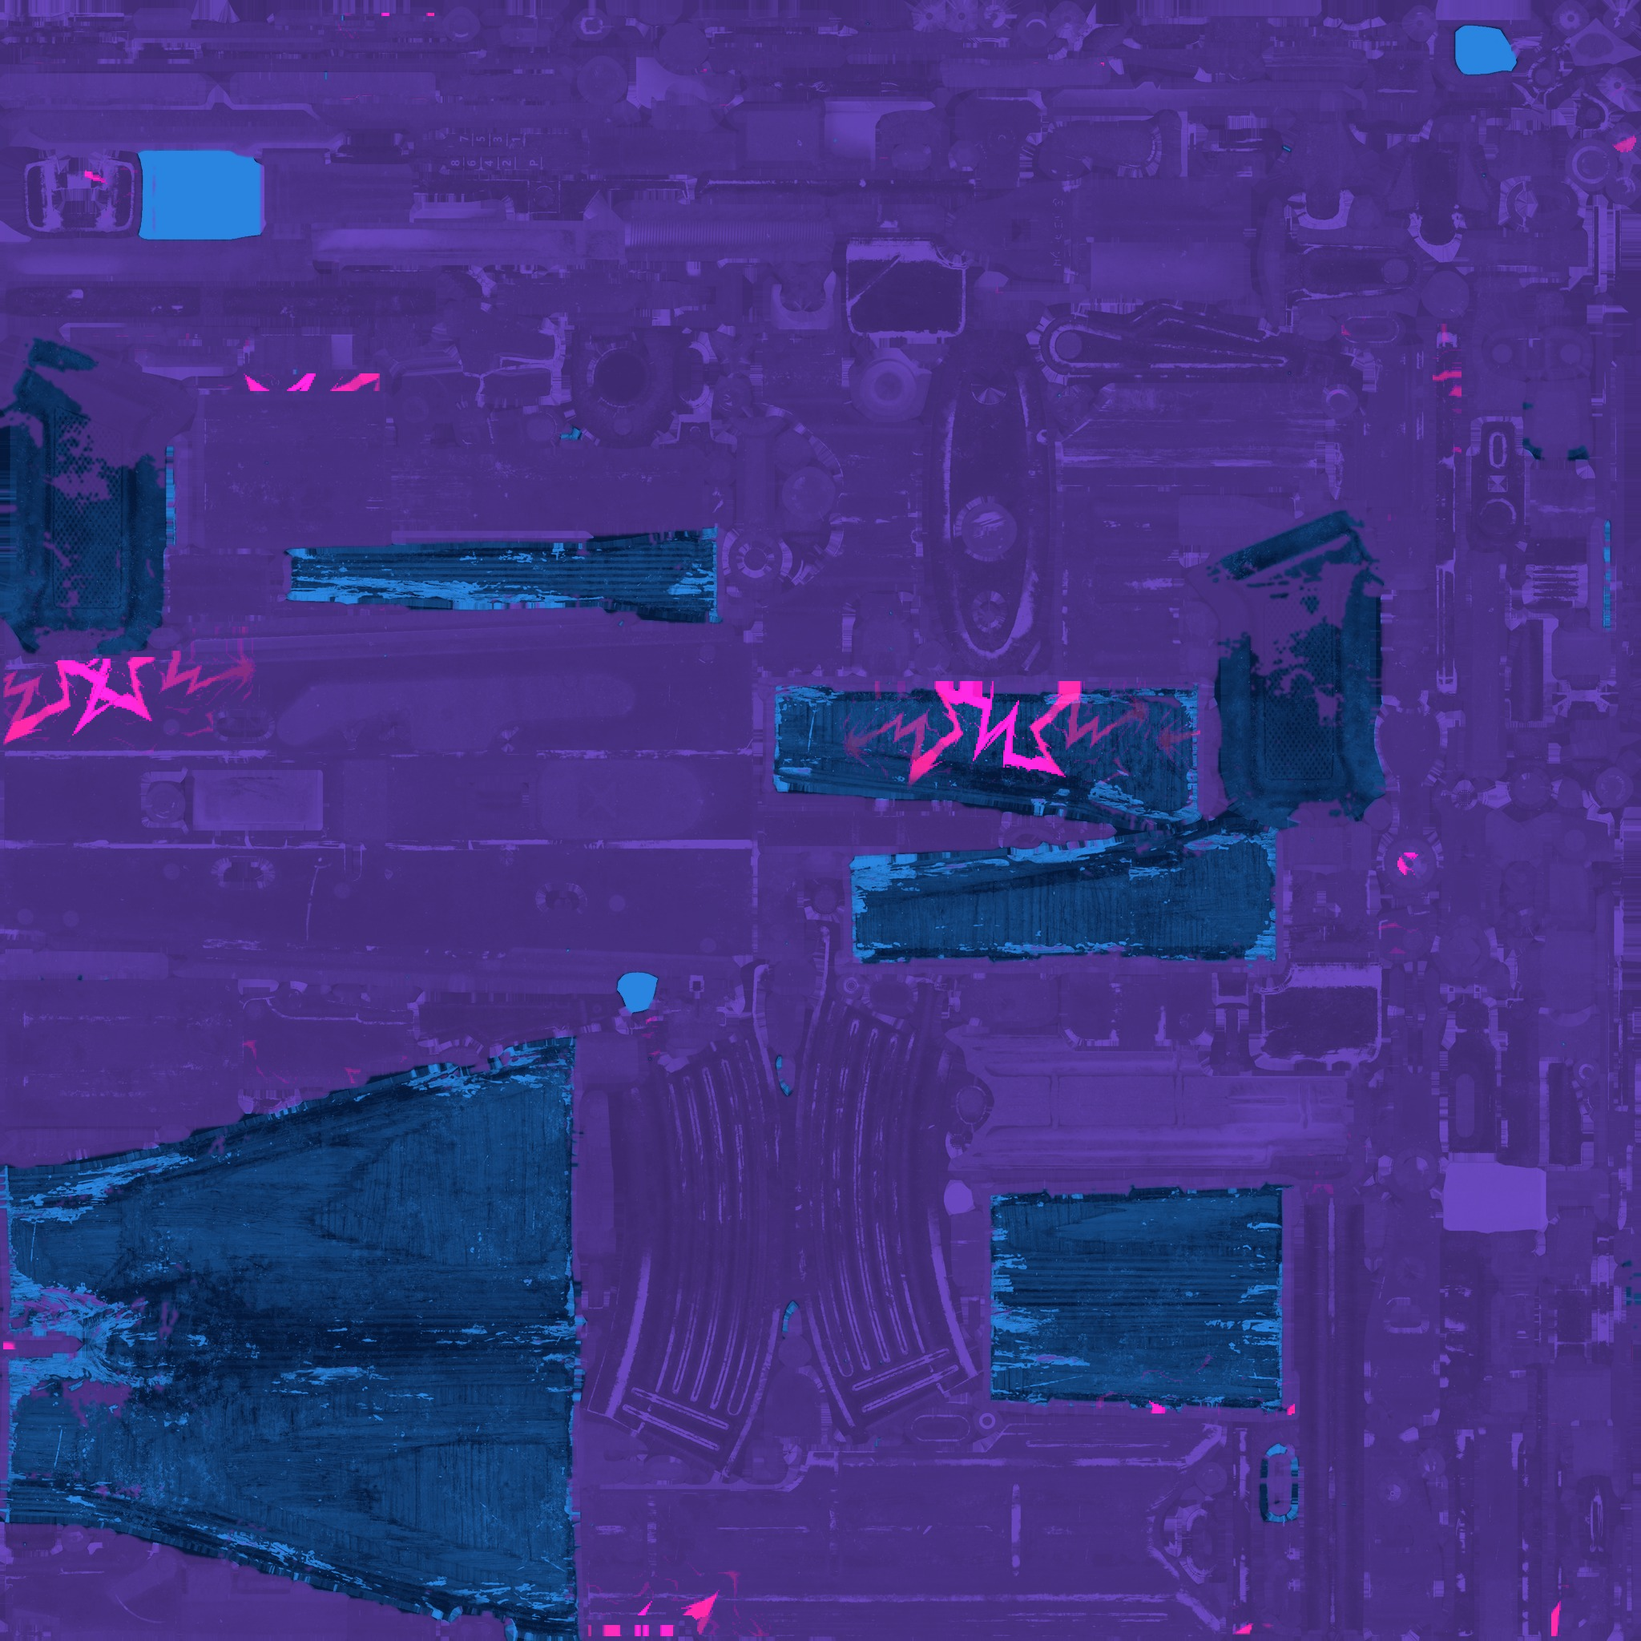
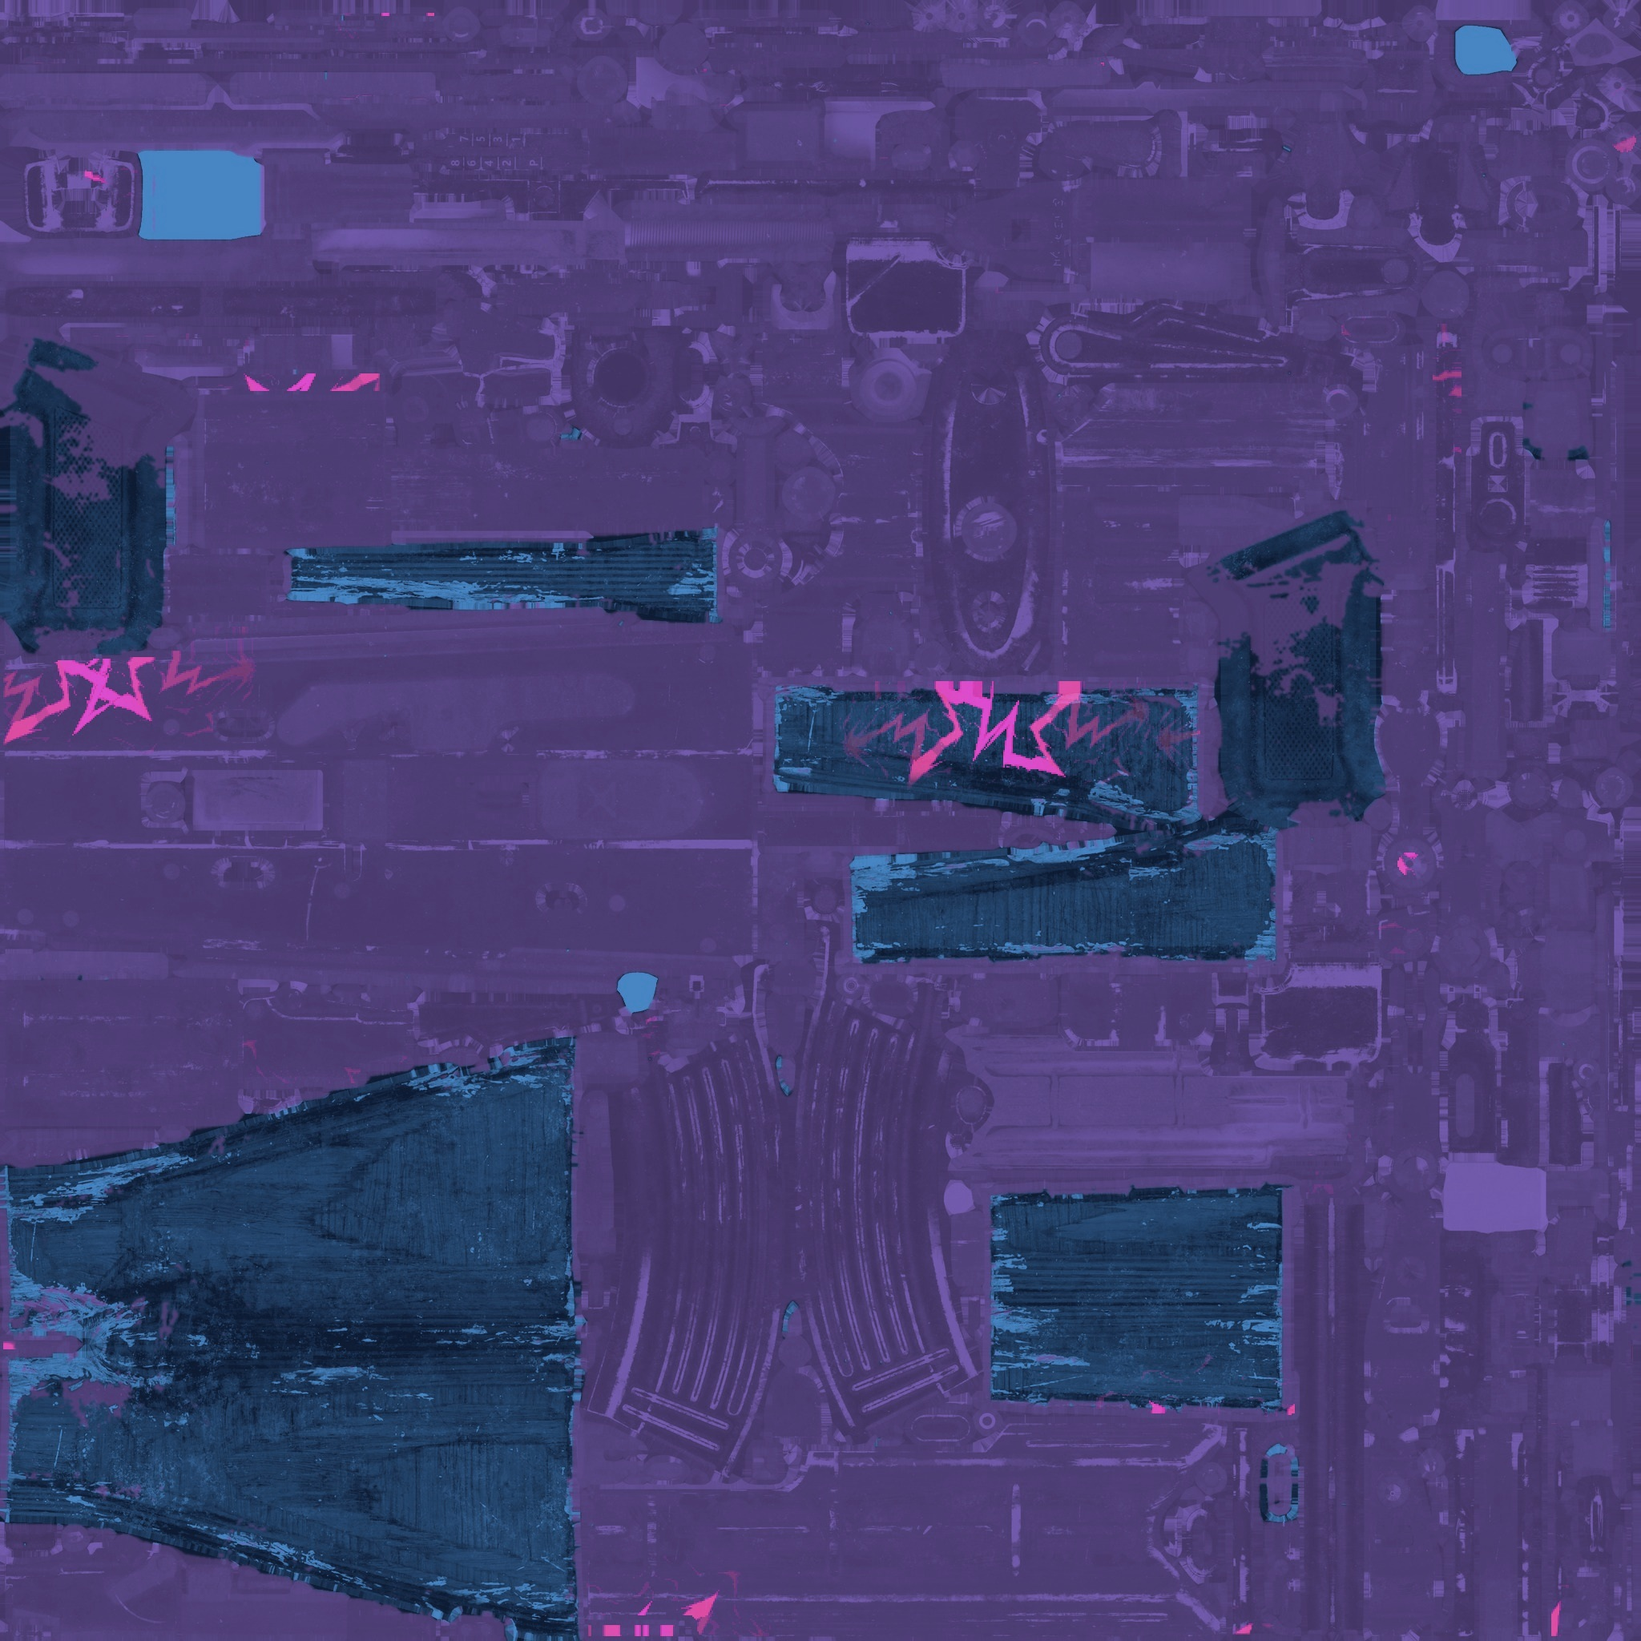
wip less uncanny but stickers off

diff --git a/main.js b/main.js
@@ -1,30 +1,63 @@
 import * as THREE from 'three';
 import { GLTFLoader } from './vendor/jsm/loaders/GLTFLoader.js';
 import { OrbitControls } from './vendor/jsm/controls/OrbitControls.js';
-import { RoomEnvironment } from './vendor/jsm/environments/RoomEnvironment.js';
 
 const FPS = 30;                       // CS2 clip frame rate; event times in the clips are frames
-const INCH = 0.0254;
 const $ = (id) => document.getElementById(id);
 const msg = (t) => ($('msg').textContent = t);
 
 // ---------------------------------------------------------------- renderer
-const renderer = new THREE.WebGLRenderer({ antialias: true });
+const renderer = new THREE.WebGLRenderer({ antialias: true, alpha: true });
 renderer.setPixelRatio(Math.min(devicePixelRatio, 2));
 renderer.setSize(innerWidth, innerHeight);
-renderer.toneMapping = THREE.NeutralToneMapping;
-renderer.toneMappingExposure = 1.0;
+renderer.toneMapping = THREE.ACESFilmicToneMapping;
+renderer.toneMappingExposure = 0.95;
 renderer.outputColorSpace = THREE.SRGBColorSpace;
+renderer.shadowMap.enabled = true;
+renderer.shadowMap.type = THREE.PCFSoftShadowMap;
 document.body.prepend(renderer.domElement);
 
 const scene = new THREE.Scene();
-scene.background = new THREE.Color(0x14161c);
+scene.background = null;   // the page CSS provides the studio backdrop
 const pmrem = new THREE.PMREMGenerator(renderer);
-scene.environment = pmrem.fromScene(new RoomEnvironment(), 0.04).texture;
-scene.environmentIntensity = 0.7;
-const sun = new THREE.DirectionalLight(0xfff1dd, 2.2);
-sun.position.set(-1, 2, -1.5);
-scene.add(sun);
+// Neutral studio env: a dark box with three soft white panels. RoomEnvironment has
+// bright, coloured panels that turn leather and skin flat white on the highlight side.
+function studioEnv() {
+  const s = new THREE.Scene();
+  s.add(new THREE.Mesh(new THREE.BoxGeometry(12, 12, 12),
+    new THREE.MeshBasicMaterial({ side: THREE.BackSide, color: 0x0b0d11 })));
+  const panel = (w, h, k, pos) => {
+    const m = new THREE.Mesh(new THREE.PlaneGeometry(w, h),
+      new THREE.MeshBasicMaterial({ color: new THREE.Color(0xffffff).multiplyScalar(k) }));
+    m.position.set(...pos);
+    m.lookAt(0, 0, 0);
+    s.add(m);
+  };
+  panel(7, 3.5, 5.0, [-2.6, 3.2, 2.0]);   // key softbox, upper left, in front
+  panel(3, 5, 1.6, [3.4, 0.6, -1.4]);      // cool fill, right/behind
+  panel(7, 2, 0.7, [0, -2.6, 1.6]);        // floor bounce
+  return pmrem.fromScene(s, 0.02).texture;
+}
+scene.environment = studioEnv();
+// dim environment: the inspect view is lit by a soft key, not a bright room, so specular
+// stays in the highlights instead of washing the leather and glove leather flat white
+scene.environmentIntensity = 0.75;
+// camera looks down +Z, so lights are placed in viewmodel space
+const key = new THREE.DirectionalLight(0xeef3ff, 2.0);
+key.position.set(-0.4, 1.3, 0.2);
+key.castShadow = true;
+key.shadow.mapSize.set(1024, 1024);
+key.shadow.bias = -0.0004;
+key.shadow.normalBias = 0.004;
+Object.assign(key.shadow.camera, { near: 0.02, far: 3, left: -0.7, right: 0.7, top: 0.7, bottom: -0.7 });
+key.shadow.camera.updateProjectionMatrix();
+scene.add(key);
+const rim = new THREE.DirectionalLight(0xc2d4ff, 0.7);
+rim.position.set(0.9, 0.25, -0.5);
+scene.add(rim);
+const fill = new THREE.DirectionalLight(0xffffff, 0.3);
+fill.position.set(0.5, -0.4, 0.5);
+scene.add(fill);
 
 // Viewmodel space: Source (x fwd, y left, z up) -> glTF (+z fwd, +x left, +y up), so the
 // camera sits at the origin and looks down +Z. CS2 default viewmodel_fov 68 @ 4:3 => 54deg vertical.
@@ -35,16 +68,21 @@ controls.enabled = false;
 camera.position.set(0, 0, 0);
 camera.rotation.set(0, Math.PI, 0);   // OrbitControls' constructor resets orientation
 
+// The inspect view sits further back than a live viewmodel: the whole gun reads at once and
+// the hands stay inside the frame. zoom keeps the 68deg perspective and only changes scale.
+const VM_ZOOM = 0.7;
 function setFov(h) {
   camera.fov = THREE.MathUtils.radToDeg(2 * Math.atan(Math.tan(THREE.MathUtils.degToRad(h / 2)) * 0.75));
+  camera.zoom = VM_ZOOM;
   camera.updateProjectionMatrix();
   $('fovLabel').textContent = h;
 }
 setFov(68);
 
-// default viewmodel_offset (2.5, 0, -1.5) inches: right / forward / up
+// viewmodel_offset (2.5, 0, -1.5) inches: right / forward / up, pulled right so the gun sits
+// in the lower-right like the in-game inspect camera
 const vm = new THREE.Group();
-vm.position.set(-2.5 * INCH, -1.5 * INCH, 0);
+vm.position.set(-0.1, 0.0, 0);
 scene.add(vm);
 
 // ---------------------------------------------------------------- loading
@@ -65,6 +103,8 @@ function tex(u, srgb = true) {
 }
 
 const CLIPS = ['idle_ak', 'draw_ak', 'lookat01_ak', 'lookat03_ak', 'lookat01_draw_ak', 'lookat03_draw_ak'];
+// [rotation deg from item.json, z along the receiver toward the muzzle, y up], AK model space
+const STICKERS = [[-90, -0.030, 0.062], [93, 0.040, 0.064], [-105, 0.110, 0.060], [78, 0.180, 0.064]];
 const SOUND_FILES = {
   m1: 'movement1', m2: 'movement2', m3: 'movement3', draw: 'ak47_draw', bolt: 'ak47_boltpull_01',
 };
@@ -77,7 +117,7 @@ const EVENTS = {
   draw_ak: [[5, 'draw'], [8, 'bolt']],
 };
 
-let rig, mixer, clipMap = {}, weaponRoot;
+let rig, mixer, clipMap = {}, weaponRoot, stkRoot;
 const rigBones = new Map();
 
 function skinnedMeshes(root, filter) {
@@ -111,6 +151,7 @@ function bindToRig(mesh) {
   mesh.bindMode = THREE.DetachedBindMode;
   mesh.bind(skel, new THREE.Matrix4());
   mesh.frustumCulled = false;
+  mesh.castShadow = mesh.receiveShadow = true;
   scene.add(mesh);  // detached binding: bones already carry the viewmodel offset
   return mesh;
 }
@@ -148,15 +189,39 @@ async function init() {
     if (/sticker_gaps/.test(m.material.name)) { m.visible = false; }
     else {
       m.material = new THREE.MeshPhysicalMaterial({
-        map: akColor, normalMap: akNormal, normalScale: new THREE.Vector2(1, -1),
+        map: akColor, normalMap: akNormal, normalScale: new THREE.Vector2(0.85, -0.85),
         aoMap: akORM, roughnessMap: akORM, metalnessMap: akORM, roughness: 1, metalness: 1,
-        iridescence: 0.0, iridescenceIOR: 1.6, clearcoat: 0.3, clearcoatRoughness: 0.25,
+        envMapIntensity: 0.55, clearcoat: 0.12, clearcoatRoughness: 0.35,
       });
     }
     akWeaponBone = m.skeleton.bones.findIndex((b) => b.name === 'weapon');
     const ibm = m.skeleton.boneInverses[akWeaponBone].clone();
     bindToRig(m);
     window.__akIBM = ibm;
+  }
+
+  // Foil stickers: four decals on the receiver's camera-facing side. Rotations are the ones
+  // from item.json; positions follow the in-game slot band on the front half of the receiver.
+  const stkTex = await texLoader.loadAsync('assets/tex/sticker_lightning.png');
+  stkTex.colorSpace = THREE.SRGBColorSpace;
+  stkTex.anisotropy = 8;
+  const stkMat = new THREE.MeshStandardMaterial({
+    map: stkTex, transparent: true, depthWrite: false, roughness: 0.3, metalness: 0.35,
+    envMapIntensity: 1.2, side: THREE.DoubleSide,
+    polygonOffset: true, polygonOffsetFactor: -1, polygonOffsetUnits: -1,
+  });
+  const stkGeo = new THREE.PlaneGeometry(0.072, 0.082);
+  stkRoot = new THREE.Group();
+  stkRoot.matrixAutoUpdate = false;
+  stkRoot.matrix.copy(window.__akIBM);
+  rigBones.get('weapon').add(stkRoot);
+  const faceX = new THREE.Quaternion().setFromAxisAngle(new THREE.Vector3(0, 1, 0), Math.PI / 2);
+  for (const [deg, z, y] of STICKERS) {
+    const s = new THREE.Mesh(stkGeo, stkMat);
+    s.position.set(0.0305, y, z);
+    s.quaternion.copy(faceX).multiply(
+      new THREE.Quaternion().setFromAxisAngle(new THREE.Vector3(0, 0, 1), THREE.MathUtils.degToRad(deg)));
+    stkRoot.add(s);
   }
 
   msg('Loading gloves and arms…');
@@ -168,8 +233,8 @@ async function init() {
   for (const m of skinnedMeshes(armsGltf.scene)) {
     const n = m.material.name;
     m.material = /glove/.test(n)
-      ? new THREE.MeshStandardMaterial({ map: gloveTex, normalMap: gloveNrm, roughness: 0.82, metalness: 0.0, side: THREE.DoubleSide })
-      : new THREE.MeshStandardMaterial({ map: armTex, normalMap: armNrm, roughness: 0.55, metalness: 0.0, side: THREE.DoubleSide });
+      ? new THREE.MeshStandardMaterial({ map: gloveTex, normalMap: gloveNrm, normalScale: new THREE.Vector2(1, -1), roughness: 0.68, metalness: 0.0, envMapIntensity: 0.45, side: THREE.DoubleSide })
+      : new THREE.MeshStandardMaterial({ map: armTex, normalMap: armNrm, normalScale: new THREE.Vector2(1, -1), roughness: 0.62, metalness: 0.0, envMapIntensity: 0.35, side: THREE.DoubleSide });
     bindToRig(m);
   }
 
@@ -183,7 +248,7 @@ async function init() {
 // ---------------------------------------------------------------- charm (pendulum)
 const charm = { group: null, pivot: new THREE.Group(), dir: new THREE.Vector3(0, -1, 0), vel: new THREE.Vector3(), prev: null, prevVel: new THREE.Vector3() };
 // attachment point in AK model space (x = sticker side, y = up, z = toward muzzle)
-const CHARM_ATTACH = new THREE.Vector3(0.026, -0.012, 0.062);
+const CHARM_ATTACH = new THREE.Vector3(0.040, 0.095, 0.180);
 async function initCharm() {
   const g = await load('assets/charm/kc_wpn_ak_jelly.glb');
   g.scene.traverse((o) => {
@@ -326,7 +391,7 @@ init().then(() => {
   mixer.addEventListener('finished', (e) => {
     if (e.action === current && current._name !== 'idle_ak') idle();
   });
-  window.__vm = { renderer, play, idle, inspect, draw, drawInspect, rigBones, scene, camera, vm, charm };
+  window.__vm = { renderer, play, idle, inspect, draw, drawInspect, rigBones, scene, camera, vm, charm, stkRoot };
   msg('Ready');
   $('start').style.display = '';
   $('start').onclick = async () => {

diff --git a/index.html b/index.html
@@ -5,12 +5,16 @@
 <title>bhoping | CS2 viewmodel</title>
 <meta name="viewport" content="width=device-width,initial-scale=1">
 <style>
-  html,body{margin:0;height:100%;background:#0b0c10;color:#cfd3dc;font:13px/1.4 system-ui,sans-serif;overflow:hidden}
+  html,body{margin:0;height:100%;color:#cfd3dc;font:13px/1.4 system-ui,sans-serif;overflow:hidden;
+    background:
+      radial-gradient(120% 90% at 50% 0%,#262a33 0%,#1b1e25 45%,#121418 100%);}
+  body::after{content:"";position:fixed;inset:0;pointer-events:none;
+    background:radial-gradient(75% 65% at 55% 45%,transparent 40%,#0708099e 100%)}
   canvas{display:block;width:100%;height:100%}
-  #hud{position:fixed;left:16px;bottom:16px;display:flex;gap:8px;flex-wrap:wrap;align-items:center}
+  #hud{position:fixed;z-index:2;left:16px;bottom:16px;display:flex;gap:8px;flex-wrap:wrap;align-items:center}
   button,label.chk{background:#171a22cc;border:1px solid #2b3040;color:#e6e9f0;padding:7px 12px;border-radius:6px;cursor:pointer;font:inherit;backdrop-filter:blur(6px)}
   button:hover{border-color:#6d7bd6}
-  #info{position:fixed;right:16px;top:16px;background:#171a22cc;border:1px solid #2b3040;border-radius:8px;padding:10px 14px;max-width:340px;backdrop-filter:blur(6px)}
+  #info{position:fixed;z-index:2;right:16px;top:16px;background:#171a22cc;border:1px solid #2b3040;border-radius:8px;padding:10px 14px;max-width:340px;backdrop-filter:blur(6px)}
   #info h3{margin:0 0 6px;font-size:13px;color:#fff}
   #info div{color:#9aa1b5}
   #info b{color:#e6e9f0;font-weight:600}

diff --git a/.omp/skills/bhoping/SKILL.md b/.omp/skills/bhoping/SKILL.md
@@ -1,0 +1,96 @@
+---
+name: bhoping
+description: >
+  CS2 inspect-view viewmodel site in ~/Downloads/bhoping (three.js, no build).
+  Use for a state recap ("what's done", "where were we"), to change the look or the
+  viewmodel, and whenever sticker or charm placement comes up: exact placement comes from
+  the GLB's g_vStickerN material params plus item.json offsets, never from eyeballing.
+---
+
+# bhoping
+
+One screen, no copy: an AK-47 | Midnight Laminate viewmodel held in first person, lit and framed
+like SteamAnalyst's CS2 inspect tab, with four Lightning (Foil) stickers and a Jelly charm.
+`index.html` + `main.js`, three.js r170 vendored under `vendor/`, assets under `assets/`.
+
+The site's value is the look. Every change is judged by a screenshot against the reference tab.
+
+## State
+
+- **Look**: `VM_ZOOM` 0.7, neutral studio PMREM env, ACES 0.95, shadow-casting key, CSS studio
+  backdrop. Albedo graded (`-modulate`) so the paint sits at the in-game palette. Recipe in `README.md`.
+- **Animation**: real CS2 clips (`idle`, `draw`, `lookat01`, `lookat03`, and the draw variants),
+  sound events pumped by frame number. Keys: F inspect, V variant, Q draw, R draw+inspect.
+- **Stickers**: four decals parented to the `weapon` bone, hand-fitted to the reference (`STICKERS`
+  in `main.js`). Exact values are known and unapplied — see below.
+- **Charm**: pendulum hanging from `CHARM_ATTACH`, pseudo-gravity from the pivot's acceleration.
+  Hand-fitted; CS2's own anchor is the model's `keychain` attachment, absent from the export.
+- Assets are pre-baked by the previous agent: geometry and clips from VPKs via ValveResourceFormat,
+  paint and glove albedo are approximations of the game's pattern masks.
+
+## Verify a change
+
+```bash
+cd ~/Downloads/bhoping && python3 -m http.server 8765
+```
+
+Open `http://127.0.0.1:8765/`, click **Start** (it resumes the audio context), wait ~10 s for the
+draw+inspect clip to finish, then screenshot. Done when three frames ~1 s apart all look right:
+the idle clip itself rotates the gun, so a single frame proves nothing.
+
+## Exact sticker placement
+
+The GLB already carries the slot defaults, in the weapon material's extras (`VectorParams` of
+`weapon_rif_ak47.vmat`, on `body_hd`):
+
+| slot | `g_vStickerNOffset` | `g_vStickerNScale` |
+|---|---|---|
+| 0 | (0.148, −0.434) | 14.1 |
+| 1 | (0.061, −0.434) | 14.1 |
+| 2 | (−0.025, −0.435) | 14.6 |
+| 3 | (−0.164, −0.444) | 14.7 |
+| 4 | empty | 0 |
+
+The offset is the sticker centre in the **sticker UV set** (`TEXCOORD_1` − 0.5); the scale is how
+many stickers fit across that UV set, so a sticker spans `1/scale` of it. `item.json`'s
+`offset_x/offset_y` are free placements **added on top** of the slot default.
+
+For this item, that resolves to four UV centres:
+
+```
+slot 1  offset (−0.0636, +0.0032)  ->  uv (0.4974, 0.0692)   roll −90
+slot 3  offset (+0.2098, −0.0028)  ->  uv (0.5458, 0.0532)   roll 93
+slot 3  offset (+0.2764, +0.0025)  ->  uv (0.6124, 0.0585)   roll −105
+slot 3  offset (+0.3292, +0.0017)  ->  uv (0.6652, 0.0577)   roll 78
+```
+
+Interpolating those UVs barycentrically over `TEXCOORD_1` on the `body_hd` mesh gives the
+receiver's camera-facing side, all normals ≈ +x:
+
+```
+(0.0173, 0.0578, 0.1876)  (0.0181, 0.0732, 0.1409)
+(0.0189, 0.0681, 0.0765)  (0.0189, 0.0689, 0.0255)
+```
+
+Model space, AK bind pose: +x is the camera-facing side (surface ≈ 0.026), +y up, +z toward the
+muzzle. Sticker size ≈ `1/14.7` of the UV set ≈ 6.9 cm. Adopting these replaces the `STICKERS`
+table and is a ~10-line edit — the numbers above are verified, not fitted.
+
+## Charm
+
+CS2 hangs charms from the model's `keychain` attachment (`m_attachments` in the `.vmdl`), with
+`item.json`'s `(9.26, 0.678, 2.26)` as the offset from it. Neither the attachment nor the model
+keyvalues survived the glTF export, which is why `CHARM_ATTACH` is eyeballed. Getting it exact
+means re-reading that attachment from the model; the offset's units are still unresolved.
+
+## Traps
+
+- The AK meshes are skinned with `DetachedBindMode` and an identity bind matrix, so their own
+  `matrixWorld` means nothing: vertices come from the bones. Anything that rides the gun is a child
+  of the `weapon` bone carrying the AK bind matrix — `stkRoot` is the pattern.
+- `polygonOffsetFactor: -4` with `camera.near = 0.005` pulls decals through the receiver from the
+  far side. −1 renders only the near surface.
+- Nearest-vertex UV lookup picks the opposite face. Interpolate the containing triangle instead.
+- The charm is occluded for parts of the idle cycle. That is the pose, not a placement bug: judge
+  it on several frames, and on the inspect clip where it swings clear.
+- Textures are graded in place; `git show HEAD:assets/tex/ak_color.jpg` is the ungraded original.

diff --git a/README.md b/README.md
@@ -9,3 +9,21 @@ Keys: F inspect, V switch inspect variant (lookat01 / lookat03), Q draw, R draw+
 Source: geometry, skeleton and animation clips are exported from the installed game's VPKs with
 ValveResourceFormat. Paint, sticker and glove textures are approximations baked from the game's
 own pattern/mask textures. Item values come from the decoded inspect links (`item.json`).
+
+Look, tuned against the CS2 inspect view:
+- Camera: 68 viewmodel FOV with `camera.zoom = 0.7` (VM_ZOOM), so the whole gun reads at once.
+- Lighting: neutral studio environment (dark box + three white panels, PMREM) at 0.75 intensity,
+  one shadow-casting key from upper left, dim rim and fill. No warm directional sun.
+- Renderer: ACES filmic tone mapping, exposure 0.95, PCF soft shadows from the key light.
+- Backdrop: transparent canvas over a CSS radial gradient plus a vignette.
+- Albedo: the baked maps are graded down from the raw pattern bake so the paint matches the
+  in-game palette under this light:
+  `magick orig -modulate 100,68,100 ak_color.jpg` (gloves 96,76,100 / arms 98,86,100).
+
+Stickers and charm:
+- The four Elemental Craft | Lightning (Foil) stickers are real decals (`STICKERS` in main.js):
+  rotated planes parented to the `weapon` bone through the AK bind matrix, so they ride the
+  animation. Rotations come from `item.json`; z/y place the band on the receiver's camera side
+  (`assets/tex/sticker_lightning.png`, alpha cleaned with `-channel A -level 30%,100%`).
+- The Jelly charm hangs from `CHARM_ATTACH` on a pendulum, with pseudo-gravity from the pivot's
+  own acceleration so it swings during inspect and draw.
